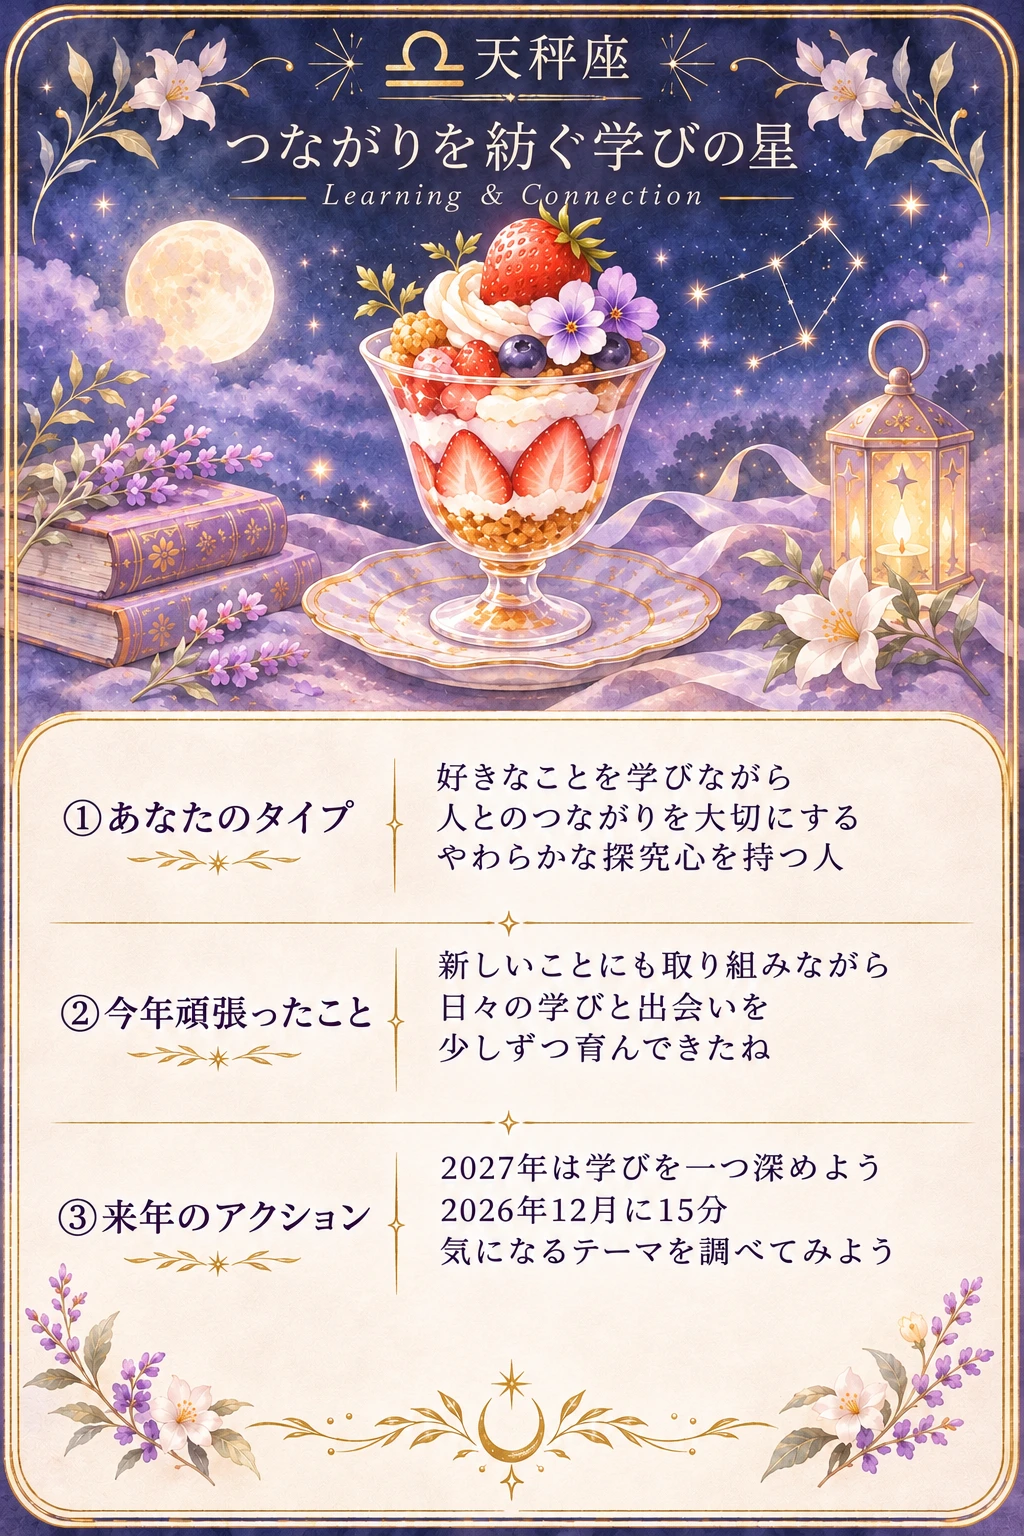
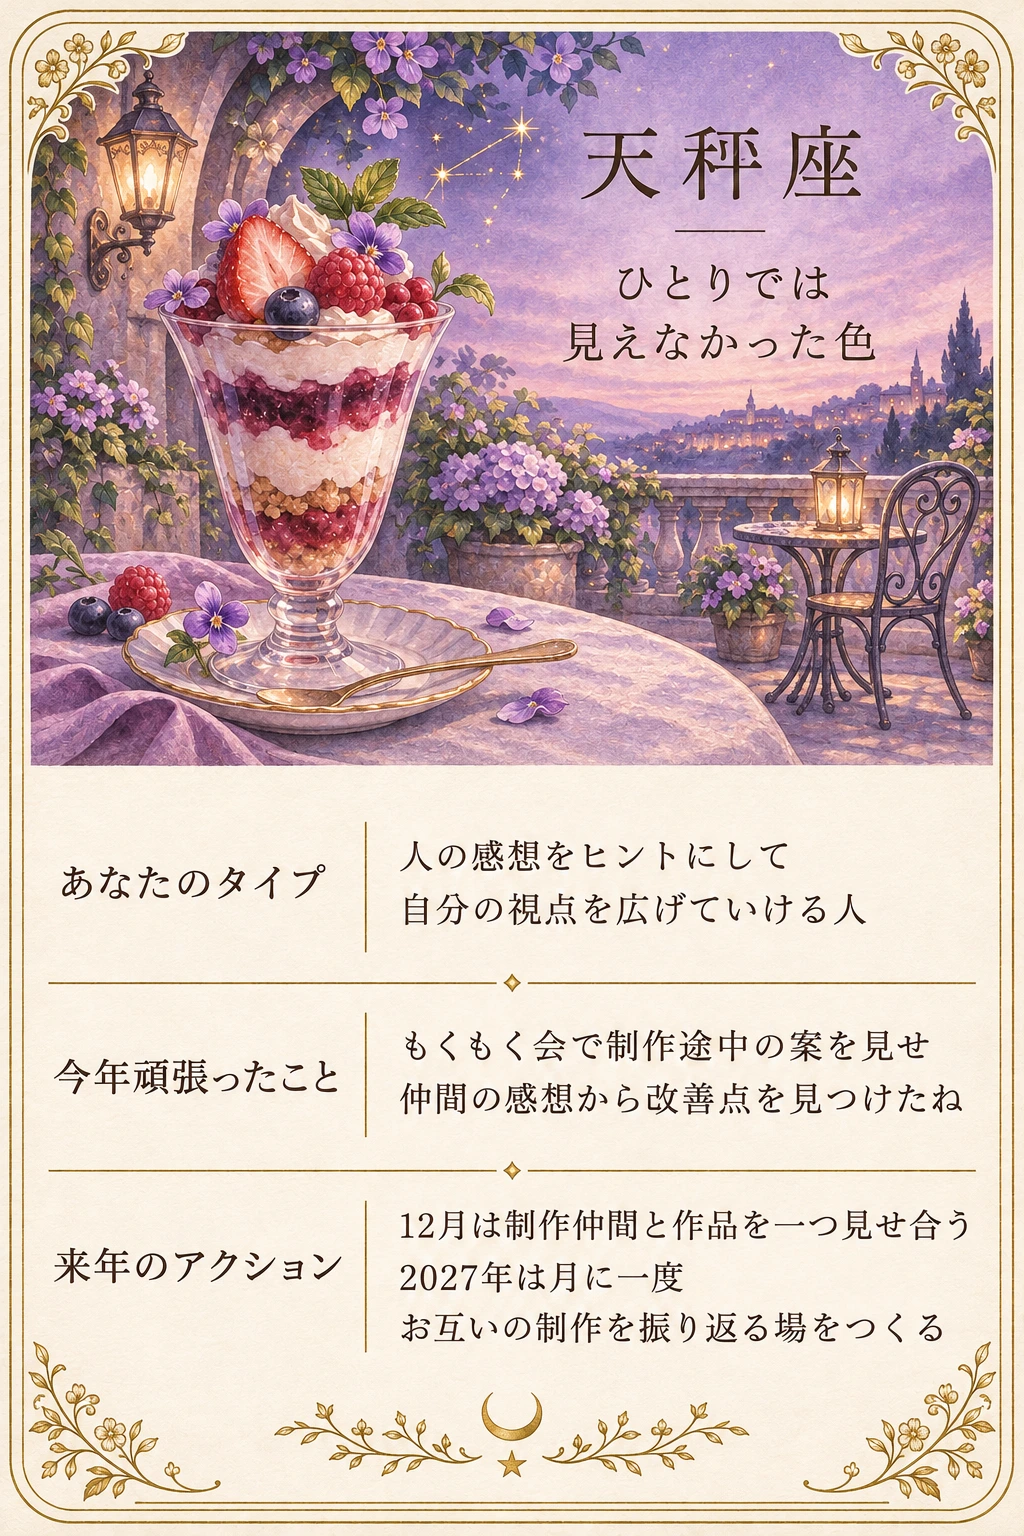
[add]

diff --git a/index.html b/index.html
@@ -7,8 +7,8 @@
 <meta name="description" content="一年の頑張りを 星とスイーツの大人なタロットカードに">
 <title>星の余韻｜一年の私に 星からの贈りもの</title>
 <link rel="preload" href="assets/sample-parfait.webp" as="image">
-<link rel="stylesheet" href="styles.css?v=worksheet">
-<script src="app.js?v=worksheet" defer></script>
+<link rel="stylesheet" href="styles.css?v=worksheet3">
+<script src="app.js?v=worksheet3" defer></script>
 </head>
 <body class="page-theme-0">
 <div class="ambient-stars" aria-hidden="true"><i></i><i></i><i></i><i></i><i></i><i></i><i></i><i></i><i></i><i></i><i></i><i></i></div>
@@ -29,15 +29,15 @@
       <div class="hero-copy">
         <p class="eyebrow">A LITTLE GIFT FROM THE STARS</p>
         <h1 id="mainTitle" tabindex="-1">今年の私に<br><em>星からの贈りもの</em></h1>
-        <p class="description">頑張ったことも 好きだった時間も<br>大人っぽい一枚のカードに やさしく閉じ込めます</p>
+        <p class="description">今年の出会いや小さな一歩を<br>あなただけのカードにしよう</p>
         <button type="button" id="start" class="button primary large"><span>私だけのカードをつくる</span><span class="external-arrow" aria-hidden="true"></span></button>
       </div>
       <div class="hero-gallery" id="galleryRegion" aria-label="タロットカードの完成見本">
         <span class="halo" aria-hidden="true"></span><span class="orbit orbit-one" aria-hidden="true"></span><span class="orbit orbit-two" aria-hidden="true"></span>
         <span class="deck-back back-a" aria-hidden="true"></span><span class="deck-back back-b" aria-hidden="true"></span>
-        <figure class="feature-card" id="featureCard"><img id="featureImage" src="assets/sample-parfait.webp" alt="つながりを紡ぐ学びの星のカード見本" width="960" height="1440"></figure>
+        <figure class="feature-card" id="featureCard"><img id="featureImage" src="assets/sample-parfait.webp" alt="ひとりでは見えなかった色のカード見本" width="960" height="1440"></figure>
         <div class="card-controls"><button type="button" id="prevCard" aria-label="前の見本">‹</button><span class="dots" id="cardDots"></span><button type="button" id="nextCard" aria-label="次の見本">›</button></div>
-        <span class="gallery-caption" id="galleryCaption" aria-live="polite">つながりを紡ぐ学びの星 · 作品見本</span>
+        <span class="gallery-caption" id="galleryCaption" aria-live="polite">ひとりでは見えなかった色 · 作品見本</span>
       </div>
     </section>
 
@@ -47,10 +47,10 @@
           <h2 id="reflectTitle" tabindex="-1">ワークシートを<br><em>ふりかえる</em></h2>
           <p class="section-description">ワークシートに書いた内容をコピーして、同じ名前の欄に貼り付けてね。</p>
           <div class="notebook worksheet-fields">
-            <div><label for="connection">① つながり</label><textarea id="connection" rows="3" placeholder="心に残った出会いや交流"></textarea></div>
-            <div><label for="joy">② 喜び</label><textarea id="joy" rows="3" placeholder="楽しかったこと"></textarea></div>
-            <div><label for="challenge">③ 挑戦</label><textarea id="challenge" rows="3" placeholder="今年やってみたこと"></textarea></div>
-            <div><label for="growth">④ 成長</label><textarea id="growth" rows="3" placeholder="できるようになったこと"></textarea></div>
+            <div><label for="connection">① つながり</label><textarea id="connection" rows="3" placeholder="例：勉強会で知り合った仲間と、作ったものを見せ合った"></textarea></div>
+            <div><label for="joy">② 喜び</label><textarea id="joy" rows="3" placeholder="例：週末に好きなカフェでゆっくり本を読んだ"></textarea></div>
+            <div><label for="challenge">③ 挑戦</label><textarea id="challenge" rows="3" placeholder="例：初めてイベントのバナーを作った"></textarea></div>
+            <div><label for="growth">④ 成長</label><textarea id="growth" rows="3" placeholder="例：作ったものの工夫を、自分の言葉で伝えられるようになった"></textarea></div>
             <p id="effortError" class="field-error" role="alert" hidden>どれか1つの欄に内容を貼り付けてね。</p>
           </div>
           <div id="littleStars" class="little-stars" aria-hidden="true"><span>✦</span><span>✦</span><span>✦</span><span>✦</span></div>
@@ -71,7 +71,7 @@
           <div class="promises">
             <div><span class="promise-symbol">☾</span><section><strong>あなたのタイプ</strong><small>振り返りから見える あなたらしい魅力</small></section></div>
             <div><span class="promise-symbol">✧</span><section><strong>今年頑張ったこと</strong><small>一歩ずつ重ねてきた努力や挑戦</small></section></div>
-            <div><span class="promise-symbol">❃</span><section><strong>来年のアクション</strong><small>2027年の方向性と 2026年12月の最初の一歩</small></section></div>
+            <div><span class="promise-symbol">❃</span><section><strong>来年のアクション</strong><small>2026年12月の最初の一歩 → 2027年の目標</small></section></div>
           </div>
           <button type="button" id="buildPrompt" class="button primary wide" aria-controls="promptPanel" aria-expanded="false">プロンプトを作成する <span>✦</span></button>
           <div class="prompt-panel" id="promptPanel" hidden>
@@ -83,7 +83,7 @@
           </div>
           <div class="bottom-navigation"><button class="text-button" type="button" data-goto="1">← 振り返りを編集</button></div>
         </div>
-        <aside class="right-feature design-aside"><div class="design-overlap"><img id="secondaryDesignImage" src="assets/sample-sun.webp" alt="" loading="lazy" width="960" height="1440"><img id="designImage" src="assets/sample-parfait.webp" alt="つながりを紡ぐ学びの星のカード見本" loading="lazy" width="960" height="1440"></div></aside>
+        <aside class="right-feature design-aside"><div class="design-overlap"><img id="secondaryDesignImage" src="assets/sample-sun.webp" alt="" loading="lazy" width="960" height="1440"><img id="designImage" src="assets/sample-parfait.webp" alt="ひとりでは見えなかった色のカード見本" loading="lazy" width="960" height="1440"></div></aside>
       </div>
     </section>
 

diff --git a/app.js b/app.js
@@ -15,8 +15,11 @@
   const pages = [...document.querySelectorAll('[data-page]')];
   const progress = [...document.querySelectorAll('[data-progress]')];
   const samples = [
-    { key: 'parfait', title: 'つながりを紡ぐ学びの星' },
-    { key: 'sun', title: '小さな一歩に咲く光' }
+    { key: 'parfait', title: 'ひとりでは見えなかった色' },
+    { key: 'sun', title: '言葉に灯るひかり' },
+    { key: 'canele', title: '余白に宿る月' },
+    { key: 'montblanc', title: '森を渡る小さな音' },
+    { key: 'pudding', title: '湖の向こうの道' }
   ];
   const artwork = card => 'assets/sample-' + card.key + '.webp';
   const fields = [['connection', 'つながり'], ['joy', '喜び'], ['challenge', '挑戦'], ['growth', '成長']];
@@ -137,6 +140,7 @@
 ・古金とアイボリーを共通にした 繊細な手描き水彩と水彩紙
 ・本人の言葉に合う星座モチーフを1つ選ぶ
 ・星座とスイーツを1つずつ選ぶ。候補はパフェ カヌレ タルト マカロン プリン モンブランなど。スイーツ本体は横幅の約60〜65%を目安に手前に描く
+・四隅に古金の植物装飾 区切り線に小さな菱形 最下部に月と小枝の飾りを添える。絵には場面に合う花や灯りを使う。文章の周りには十分な余白を残す
 ・添付見本があれば構図と画風の参考にする
 
 ・色と光と背景は振り返りに合わせて選ぶ。菫色の月夜 暖かなアプリコットの花園 群青の星空 深緑と琥珀の森などから変化をつける
@@ -157,7 +161,7 @@
 ・各本文は25〜42字程度を2〜3行にまとめる。句読点「、」「。」は使わない
 ・①は振り返りからうかがえる魅力をやさしく表す。星座から性格や未来を断定しない
 ・②は本人が書いた努力や学びを具体的にねぎらう。書かれていない性格や実績は作らない
-・③は2027年の小さな挑戦を1つ提案し 2026年12月に始める15〜30分の行動を1つ添える
+・③は「2026年12月の最初の一歩 → 2027年の目標」の順で書く。先に2026年12月に着手できる具体的な行動を1つ 次にその行動につながる2027年の目標を1つ提案する。所要時間は指定しない。受講生の振り返りに応じて制作 練習 受講内容の実践 講評 仲間との学び キャリア探索などから役立つ行動を考える
 ・固定見出しは一字一句そのまま 誤字や文字のはみ出しがないか確認する
 
 【本人の振り返り】

diff --git a/README.md b/README.md
@@ -1,15 +1,8 @@
-# 星の余韻 v12 - 入力クリア・構図調整版
+# 星の余韻
 
-- 先ほどまでの大人っぽい星空・スイーツ水彩デザインは維持
-- 画像生成プロンプトで **上部8%タイトル + 32%水彩画 / 下部57%の三段文章 + 最下部3%飾り** を指定
-- 文章欄は3段とも「左に見出し／右に本文」形式
-- 入力画面に「入力をクリア」を追加（確認付き）
-- 入力を消した際は古いプロンプト・投稿文案も消去
-- トップの流れ星、入力の星のきらめき、プロンプト前の光の演出を維持
+ZIPを展開して、index.htmlをブラウザで開いてください。見本画像はassetsフォルダに入っています。
 
-## GitHub Pages
-初心者向け：1ファイル版ZIPを解凍し、その`index.html`で既存ファイルを置き換えてください。
-完全版：index.html, app.js, styles.css, assets/ の全ファイルを公開先のリポジトリ直下へ配置してください。
+1. ワークシートの「つながり」「喜び」「挑戦」「成長」を貼り付けます。
+2. プロンプトを作成してコピーし、ChatGPTに貼り付けます。完成画像を保存し、ワークシートに貼り付けてください。
 
-## 制限
-ChatGPTへの `?q=` による受け渡しは環境によって動作が異なります。長文ならプロンプトをコピーして貼り付けてください。カード画像の完全な構図と日本語表記は画像モデルにより揺らぐため、厳密な保証はできません。
+GitHub Pagesで使う場合は、index.html、app.js、styles.css、assetsフォルダ、.nojekyllを公開元フォルダに置きます。
